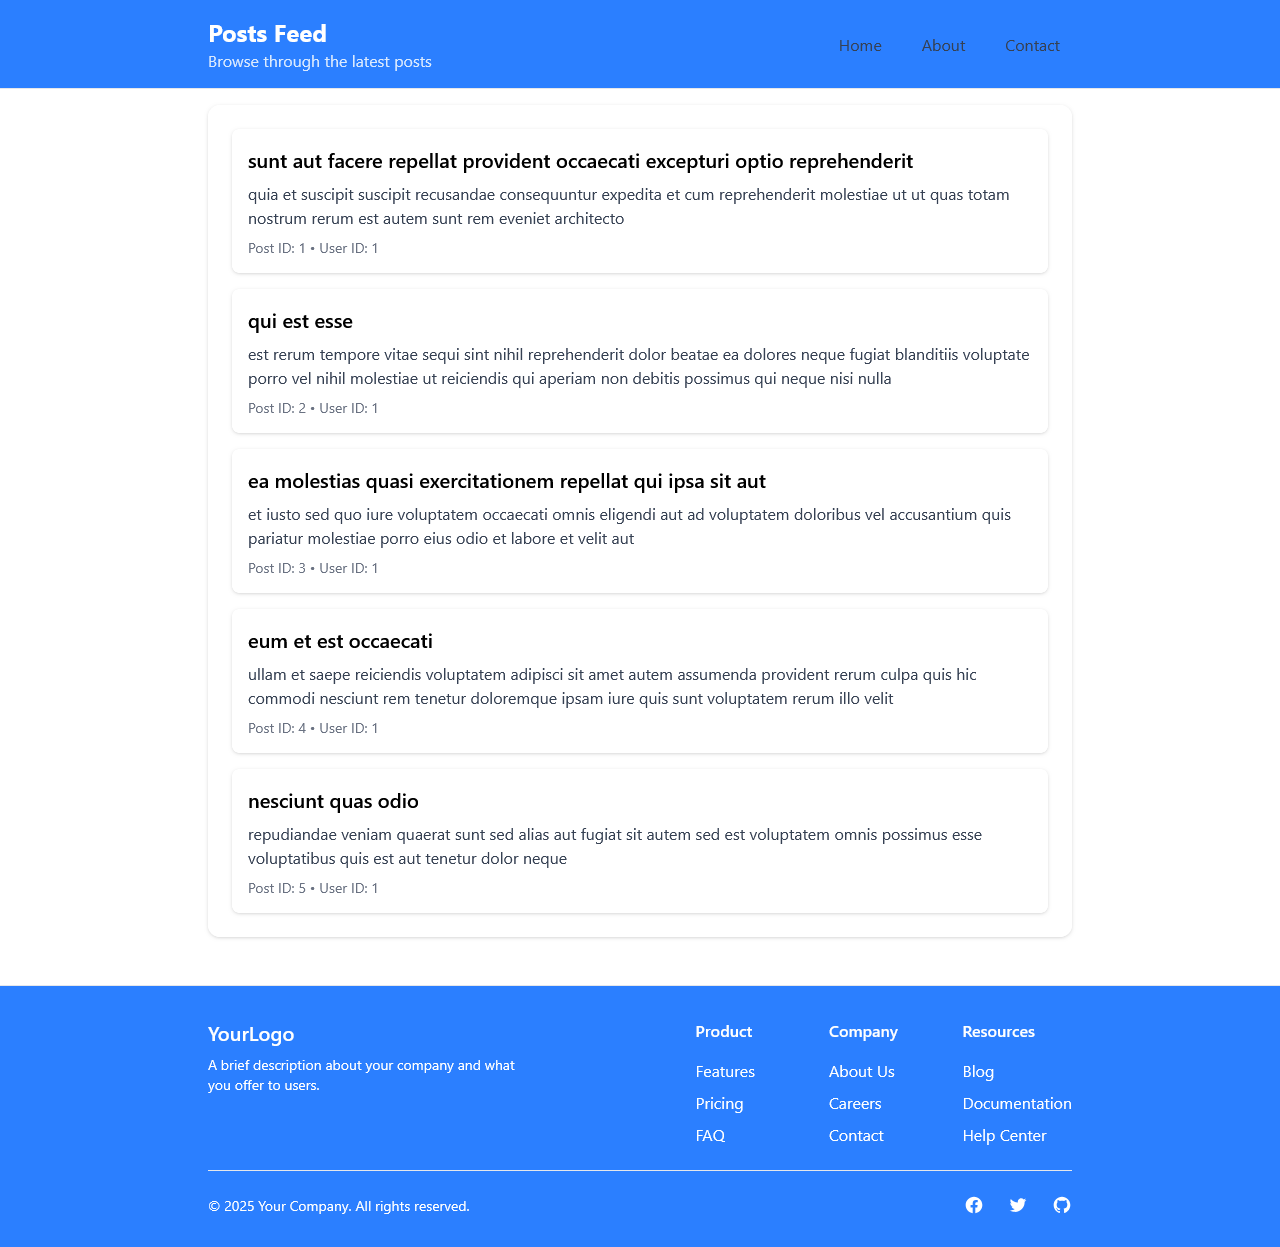
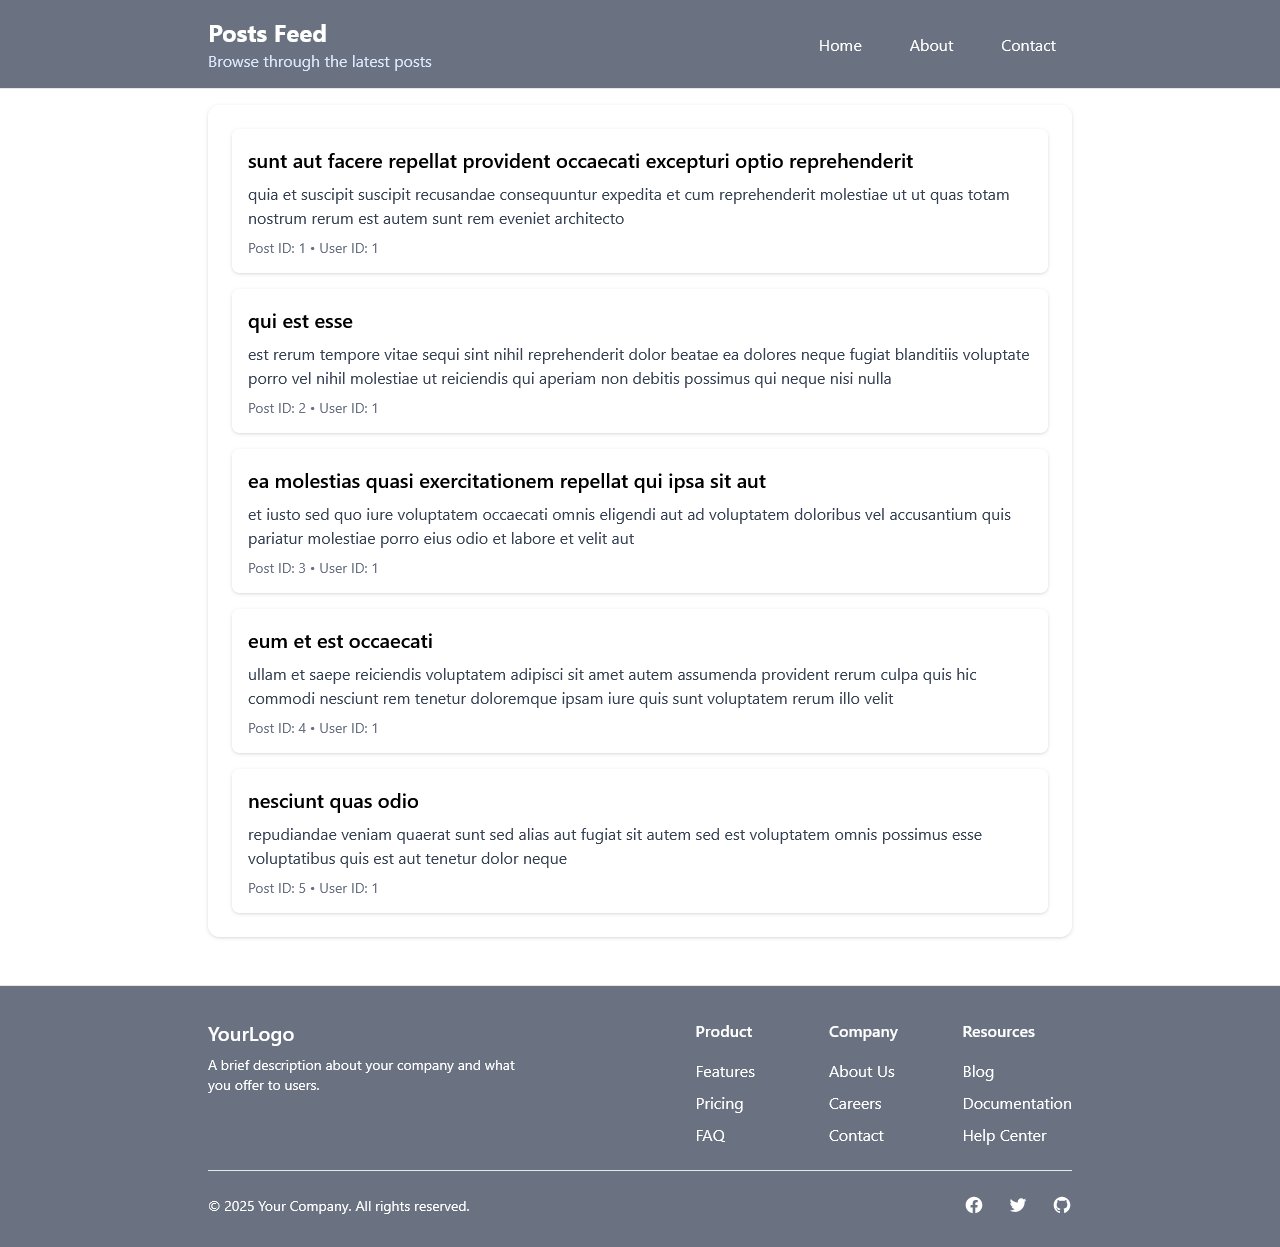
style: update header and footer background colors to gray and adjust text colors

Changed region(s): [[0.0, 0.7923, 1.0, 1.0], [0.0, 0.0, 1.0, 0.0914]]

diff --git a/src/components/Header.tsx b/src/components/Header.tsx
@@ -24,7 +24,7 @@ const Header = ({
   };
 
   return (
-    <header className="bg-blue-500 border-b border-gray-200 py-4">
+    <header className="bg-gray-500 border-b border-gray-200 py-4">
       <div className="mx-auto max-w-4xl px-4 flex justify-between items-center">
         <div>
           <h1 className="text-2xl font-bold text-white">{title}</h1>
@@ -70,7 +70,7 @@ const Header = ({
                   <a
                     key={item}
                     href="/"
-                    className="block px-4 py-2 text-gray-700 hover:bg-gray-100"
+                    className="block px-4 py-2 text-white"
                     tabIndex={0}
                     aria-label="Home"
                   >
@@ -87,7 +87,7 @@ const Header = ({
                 <a
                   key={item}
                   href="/"
-                  className="block px-4 py-2 text-gray-700 hover:bg-gray-100"
+                  className="block px-4 py-2 text-white"
                   tabIndex={0}
                   aria-label="Home"
                 >

diff --git a/src/components/Footer.tsx b/src/components/Footer.tsx
@@ -47,7 +47,7 @@ const Footer = ({
   ];
 
   return (
-    <footer className="bg-blue-500 border-t border-gray-200 mt-8">
+    <footer className="bg-gray-500 border-t border-gray-200 mt-8">
       <div className="mx-auto max-w-4xl px-4 py-8">
         <div className="md:flex md:justify-between">
           <div className="mb-6 md:mb-0">
